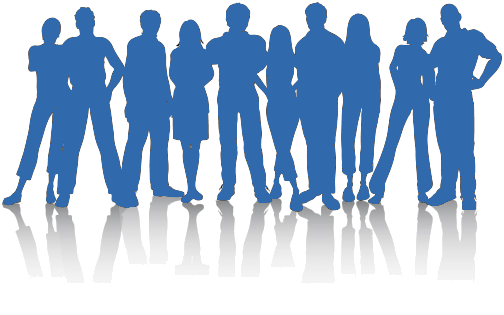
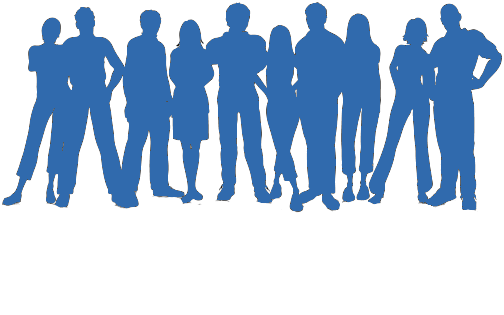
J'ai toutes les parties je pense

Changed region(s): [[0.0, 0.6, 0.9524, 0.8286]]

diff --git a/css/impress-demo.css b/css/impress-demo.css
@@ -187,7 +187,7 @@ a:focus {
 */
 .impress-enabled .step {
     margin: 0;
-    opacity: 0.3;
+    opacity: 0.1;
 
     -webkit-transition: opacity 1s;
     -moz-transition:    opacity 1s;
@@ -323,8 +323,15 @@ a:focus {
 
 #big b {
     display: block;
-    font-size: 250px;
-    line-height: 250px;
+    font-size: 100px;
+    line-height: 150px;
+    font-family: "Courier New";
+    text-shadow: 5px 5px 2px #999999;
+    filter: dropshadow(color=#999999, offx=5, offy=5);
+}
+
+#big .tiny {
+    font-size: 35px;
 }
 
 #big .thoughts {
@@ -337,7 +344,57 @@ a:focus {
 */
 #tiny {
     width: 500px;
-    text-align: center;
+}
+
+#tiny2 span.scaling1, #tiny2 span.scaling2, #tiny2 span.scaling3 {
+    display: block;
+    -webkit-transition: 0.5s;
+    -moz-transition:    0.5s;
+    -ms-transition:     0.5s;
+    -o-transition:      0.5s;
+    transition:         0.5s;
+}
+
+#tiny2.present span.scaling1 {
+    -webkit-transform: scale(0.7);
+    -moz-transform:    scale(0.7);
+    -ms-transform:     scale(0.7);
+    -o-transform:      scale(0.7);
+    transform:         scale(0.7);
+
+    -webkit-transition-delay: 1s;
+    -moz-transition-delay:    1s;
+    -ms-transition-delay:     1s;
+    -o-transition-delay:      1s;
+    transition-delay:         1s;
+}
+
+#tiny2.present span.scaling2 {
+    -webkit-transform: scale(0.7);
+    -moz-transform:    scale(0.7);
+    -ms-transform:     scale(0.7);
+    -o-transform:      scale(0.7);
+    transform:         scale(0.7);
+
+    -webkit-transition-delay: 2s;
+    -moz-transition-delay:    2s;
+    -ms-transition-delay:     2s;
+    -o-transition-delay:      2s;
+    transition-delay:         2s;
+}
+
+#tiny2.present span.scaling3 {
+    -webkit-transform: scale(0.7);
+    -moz-transform:    scale(0.7);
+    -ms-transform:     scale(0.7);
+    -o-transform:      scale(0.7);
+    transform:         scale(0.7);
+
+    -webkit-transition-delay: 3s;
+    -moz-transition-delay:    3s;
+    -ms-transition-delay:     3s;
+    -o-transition-delay:      3s;
+    transition-delay:         3s;
 }
 
 /*
@@ -345,11 +402,14 @@ a:focus {
 */
 #ing { width: 500px }
 
+#ing h1 {
+    font-size: 100px;
+}
 /*
     ... so we define display to `inline-block` to enable transforms and
     transition duration to 0.5s ...
 */
-#ing b {
+#ing b, #imagination b {
     display: inline-block;
     -webkit-transition: 0.5s;
     -moz-transition:    0.5s;
@@ -368,6 +428,34 @@ a:focus {
     -ms-transform:     translateY(-10px);
     -o-transform:      translateY(-10px);
     transform:         translateY(-10px);
+}
+
+#imagination.present .positioning1 {
+    -webkit-transform: translateY(-10px);
+    -moz-transform:    translateY(-10px);
+    -ms-transform:     translateY(-10px);
+    -o-transform:      translateY(-10px);
+    transform:         translateY(-10px);
+
+    -webkit-transition-delay: 0.25s;
+    -moz-transition-delay:    0.25s;
+    -ms-transition-delay:     0.25s;
+    -o-transition-delay:      0.25s;
+    transition-delay:         0.25s;
+}
+
+#imagination.present .positioning2 {
+    -webkit-transform: translateY(10px);
+    -moz-transform:    translateY(10px);
+    -ms-transform:     translateY(10px);
+    -o-transform:      translateY(10px);
+    transform:         translateY(10px);
+
+    -webkit-transition-delay: 0.5s;
+    -moz-transition-delay:    0.5s;
+    -ms-transition-delay:     0.5s;
+    -o-transition-delay:      0.5s;
+    transition-delay:         0.5s;
 }
 
 /*

diff --git a/index.html b/index.html
@@ -74,28 +74,57 @@
                 <li>Mes attentes ?</li>
                 <li>Quel contexte ?</li>
             </ul>
-            <img src="img/people.png" />
+            <center>
+                <img src="img/people.png" />
+            </center>
         </p>
     </div>
 
     <div id="big" class="step" data-x="3500" data-y="2100" data-rotate="180" data-scale="6">
-        <p>visualize your <b>big</b> <span class="thoughts">thoughts</span></p>
+        <p><span class="tiny">Mes</span> <b>MISSIONS</b></p>
     </div>
 
-    <div id="tiny" class="step" data-x="2825" data-y="2325" data-z="-3000" data-rotate="300" data-scale="1">
-        <p>and <b>tiny</b> ideas</p>
+    <div id="tiny" class="step" data-x="2825" data-y="2325" data-z="-3000" data-rotate="0" data-scale="1">
+        <p><b>Hébergements</b></p>
+    </div>
+
+    <div id="tiny2" class="step" data-x="2825" data-y="2325" data-z="-3000" data-rotate="90" data-scale="2">
+        <p>
+            <b>Webmail2</b> :
+                <span class="scaling1">Mail</span>
+                <span class="scaling2">Contact</span>
+                <span class="scaling3">Agenda</span>
+            </ul>
+        </p>
+    </div>
+
+    <div id="tiny3" class="step" data-x="2825" data-y="2325" data-z="-3000" data-rotate="180" data-scale="3">
+        <p>
+            <b>Objets JS</b> :
+            <ul>
+                <li><span>SearchBox</span></li>
+                <li><span>Combobox</span></li>
+                <li><span>TreeView</span></li>
+                <li><span>InputList</span></li>
+                <li><span>SATable</span></li>
+                <li>...</li>
+            </ul>
+        </p>
     </div>
 
     <div id="ing" class="step" data-x="3500" data-y="-850" data-rotate="270" data-scale="6">
-        <p>by <b class="positioning">positioning</b>, <b class="rotating">rotating</b> and <b class="scaling">scaling</b> them on an infinite canvas</p>
+        <p>
+            Ma <h1>Conclusion</h1>
+        </p>
     </div>
 
     <div id="imagination" class="step" data-x="6700" data-y="-300" data-scale="6">
-        <p>the only <b>limit</b> is your <b class="imagination">imagination</b></p>
+        <p>Re<b class="positioning1">merci</b>ements</p>
+        <p><b class="positioning2">Réf</b>érences</p>
     </div>
 
     <div id="source" class="step" data-x="6300" data-y="2000" data-rotate="20" data-scale="4">
-        <p>Avez-vous des questions ?</p>
+        <p>Avez-vous des <b>questions</b> ?</p>
         <center>
             <img src="img/question.png" />
         </center>
